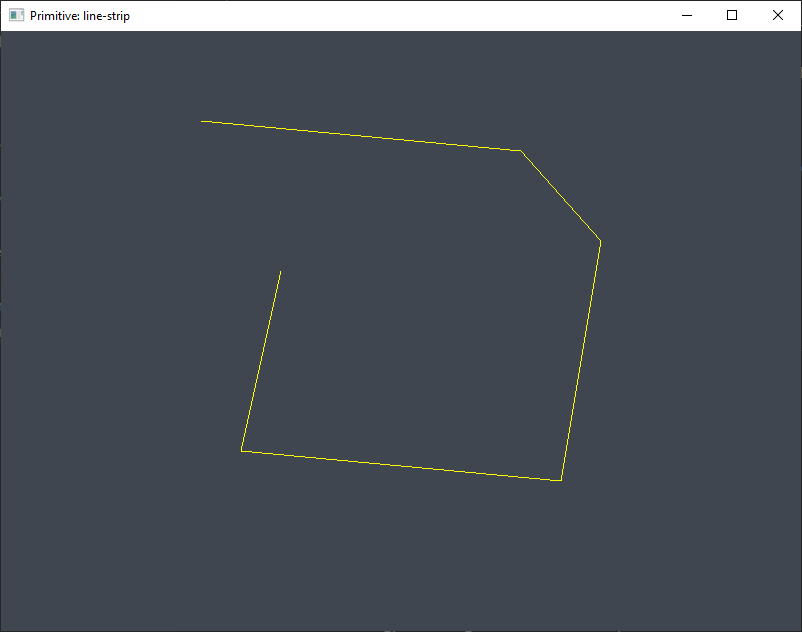
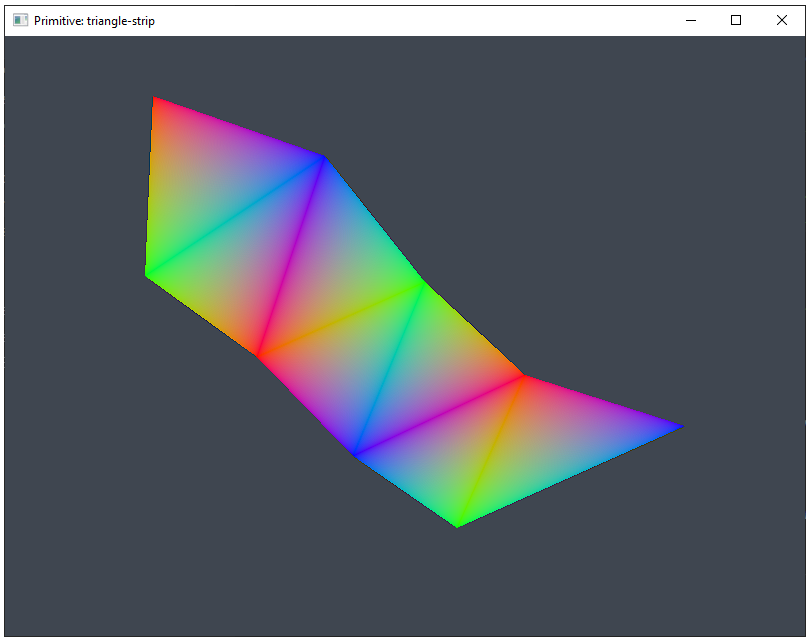
Merge branch 'main' of https://github.com/jack1232/wgpu05

Changed region(s): [[0.1559, 0.1503, 0.8416, 0.8418], [0.0, 0.0, 1.0, 1.0]]

diff --git a/README.md b/README.md
@@ -1,11 +1,11 @@
-# Rust *wgpu* Graphics Programming: Step-By-Step (4) 
-## Create Point and Line Primitives
+# Rust *wgpu* Graphics Programming: Step-By-Step (5) 
+## Create Triangle Primitives
 
-This is the source code for fourth video of the YouTube series on step-by-step Rust *wgpu* graphics programming.
+This is the source code for 5th video of the YouTube series on step-by-step Rust *wgpu* graphics programming.
 
-This sample *wgpu* app creates point and line primitives. The output from this app is shown in the following image.
+This sample *wgpu* app creates triangle primitives. The output from this app is shown in the following image.
 
-![wgpu04](src/images/image01.png)
+![wgpu05](src/images/image01.png)
 
 ## Link for All Source Code Used in the Rust *wgpu* Step-By-Step Video Series:
 
